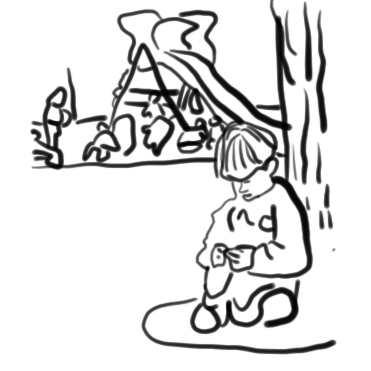
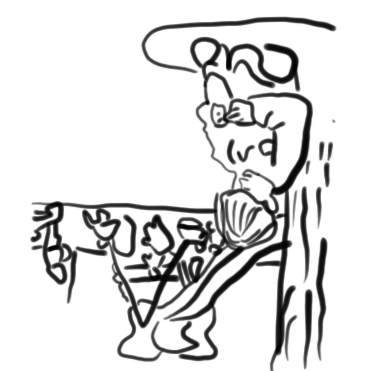
fdf

diff --git a/ConsoleApplication1/Game.cpp b/ConsoleApplication1/Game.cpp
@@ -2,7 +2,7 @@
 #include "util.h"
 
 
-Game::Game() :doored{ false }, doored1{ false }, i{ 0 }, screenWidth{ 1270 }, screenHeight{ 720 }, door{WHITE,GRAY,{ 0.0f, 2.0f, 0.0f },false }, door1{ BLACK,GRAY,{ 0.0f, 2.0f, -25.0f },false } {
+Game::Game() :doored{ false }, doored1{ false }, i{ 0 }, screenWidth{ 1920 }, screenHeight{ 1080 }, door{WHITE,GRAY,{ 0.0f, 2.0f, 0.0f },false }, door1{ BLACK,GRAY,{ 0.0f, 2.0f, -25.0f },false } {
     InitWindow(screenWidth, screenHeight, "JSB");
     DisableCursor();
     SetTargetFPS(165);
@@ -18,6 +18,7 @@ Game::Game() :doored{ false }, doored1{ false }, i{ 0 }, screenWidth{ 1270 }, sc
 
 
     child = LoadTexture("resources/child.jpg");
+    childTxt = LoadTexture("resources/child_txt.jpg");
 
     for (int i{ 0 };i < 100;i++) {
         float s1 = static_cast<float>(rand() % 100 - 50);
@@ -84,7 +85,8 @@ void Game::draw() {
             for (auto step : stepArray) {
                 step.draw();
             }
-            DrawCubeTexture(child, { 0.0f, 0.5f, -20.0f }, 1.0f, 1.0f, 1.0f, WHITE);
+            DrawCubeTexture(child, { 0.0f, 4.5f, -20.0f }, 3.0f, 3.0f, 3.0f, WHITE);
+            DrawCubeTexture(childTxt, { 0.0f, 1.5f, -20.0f }, 3.0f, 3.0f, 3.0f, WHITE);
         }
 
         if (camera.position.y<1) {

diff --git a/ConsoleApplication1/Game.h b/ConsoleApplication1/Game.h
@@ -25,6 +25,7 @@ private:
     int i;
 
     Texture2D child;
+    Texture2D childTxt;
 
 public:
 	Game();
